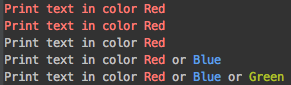
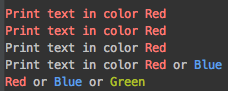
Update readme

diff --git a/samples.js b/samples.js
@@ -38,4 +38,4 @@ console.logRed('\n\nPrint text in color Red'); // Print text in color Red
 console.log(console.red('Print text in color Red')); // This text will be converted to color red
 console.log('Print text in color', console.red('Red')); // This text will be converted to color red
 console.log('Print text in color ' + console.red('Red') + ' or ' + console.blue('Blue')); // This text will be converted to color red or blue
-console.log('Print text in color ' + console.red('Red') + ' or ' + console.blue('Blue') + ' or ' + console.green('Green')); // This text will be converted to color red or blue or green
+console.log(console.red('Red') + ' or ' + console.blue('Blue') + ' or ' + console.green('Green')); // red or blue or green

diff --git a/README.md b/README.md
@@ -2,9 +2,9 @@
 
 Node server console upgrate, to create console.logs with colors with a simple form, without any other modules.
 
-## Instalation ##
+## Install ##
 
-npm install simple-console-color
+npm i simple-console-color
 
 ## Usage ##
 
@@ -49,6 +49,6 @@ console.logRed('Print text in color Red');
 console.log(console.red('Print text in color Red'));  
 console.log('Print text in color', console.red('Red'));  
 console.log('Print text in color ' + console.red('Red') + ' or ' + console.blue('Blue'));  
-console.log('Print text in color ' + console.red('Red') + ' or ' + console.blue('Blue') + ' or ' + console.green('Green'));  
+console.log(console.red('Red') + ' or ' + console.blue('Blue') + ' or ' + console.green('Green'));
 
 ![alt text](https://raw.githubusercontent.com/AndreAntunesVieira/console-color/master/samples/samples-1.png "Sample 1")
